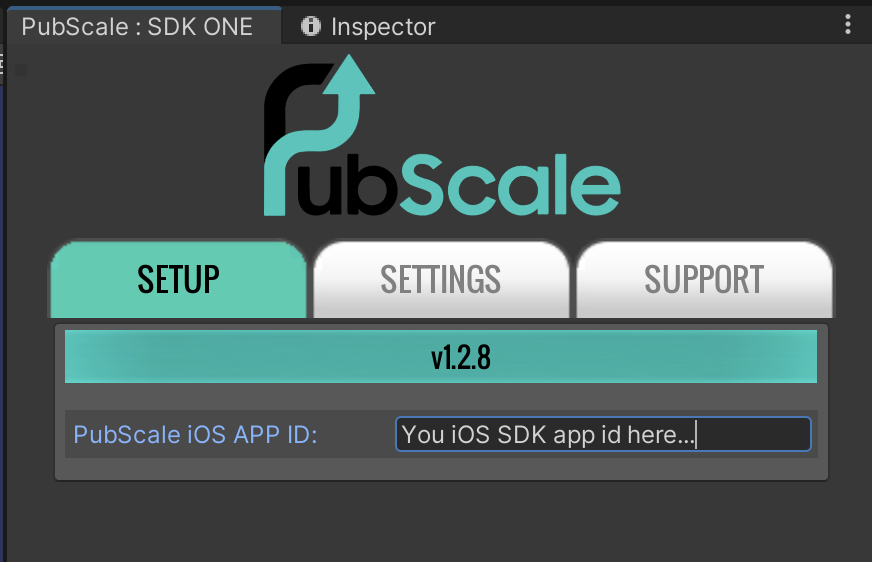
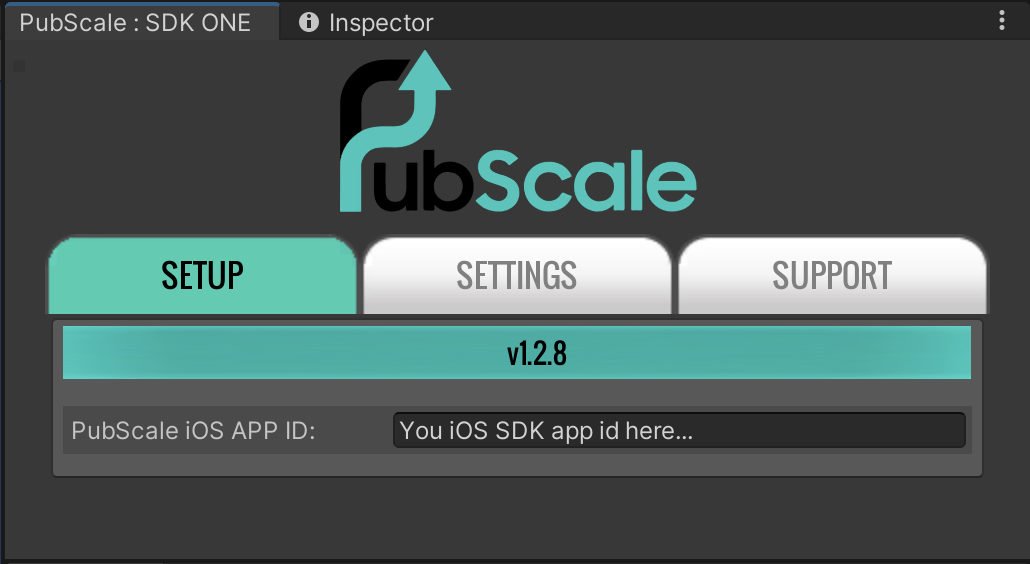
Add files via upload
Update v1.2.8 App ID media

Changed region(s): [[0.0, 0.0, 1.0, 1.0], [0.9599, 0.0302, 0.9908, 0.0605]]

diff --git a/index.html b/index.html
@@ -676,8 +676,7 @@ blockquote {
 </style></head><body><article id="fe0990ee-a724-4416-89f8-58ed024b128c" class="page mono"><header><img class="page-cover-image" src="Native%20Ad%20Integration%20fe0990eea724441689f858ed024b128c/gg.png" style="object-position:center 11.629999999999995%"/><div class="page-header-icon page-header-icon-with-cover"><img class="icon" src="https://www.notion.so/icons/book-closed_gray.svg"/></div><h1 class="page-title">Native Ad Integration</h1><p class="page-description"></p></header><div class="page-body"><p id="55d7b69e-4c62-4229-a159-4d5093b758b0" class="">SDK Version - 1.2.8 Last updated <time>@24/09/2023</time> </p><h2 id="1d392d7e-e95f-4542-8927-e1df2956d628" class="">Before Integration</h2><p id="8af10720-7b9a-4bad-8c45-5b60bee4ec93" class="">
 </p><ol type="1" id="19b2721b-daad-4e0f-8950-c082c52994b2" class="numbered-list" start="1"><li>Make sure you are using Unity version 2019.4.0f1 or above</li></ol><ol type="1" id="3f237023-750d-4712-93b1-531c53516f03" class="numbered-list" start="2"><li>Platform selected for your Unity project is based on the target device</li></ol><ol type="1" id="ae1d90b9-58a7-4022-ac36-f33147efb671" class="numbered-list" start="3"><li>You have the <mark class="highlight-blue"><a href="https://admob.google.com/home/">Ad Mob</a></mark> app ID ready with you. Make sure AdMob Unity version is v7.4.0 or above</li></ol><ol type="1" id="64551be1-2b00-4506-9ddc-25884c384752" class="numbered-list" start="4"><li>You have a PubScale SDK App ID and a Native Ad Unit ID for the platform you are targeting (Android / iOS)</li></ol><ol type="1" id="03c4959a-f996-459a-b670-6eac84d0f96b" class="numbered-list" start="5"><li>Ensure your application builds without any errors BEFORE adding the plugin </li></ol><p id="101f99c4-aa2c-4b43-82fa-940e6a20ede6" class="">
 </p><hr id="071746c0-b6a9-422b-b8b8-396e6e75b759"/><h2 id="bba8da08-ffd0-49d6-8c76-f12e53435cd2" class="">Editor Integration Steps</h2><p id="00835de8-80fd-4390-ba59-173e7df6735c" class="">
-</p><ol type="1" id="d0cb64d0-72dc-4bbe-9ee8-0e0d46d4fc22" class="numbered-list" start="1"><li>If using Unity editor version 2019 or 2020 change the Api Compatibility Level to .NET 4x.</li></ol><p id="a95d275d-5091-4e85-be01-9d1cec8ebe95" class="">This can be found under <mark class="highlight-orange"><strong>Player Settings/Other Settings/Configuration</strong></mark></p><figure id="0c301e83-ff78-4da7-a716-199dfb372f75" class="image" style="text-align:left"><a href="Native%20Ad%20Integration%20fe0990eea724441689f858ed024b128c/Untitled.png"><img style="width:393px" src="Native%20Ad%20Integration%20fe0990eea724441689f858ed024b128c/Untitled.png"/></a></figure><ol type="1" id="64b58d71-659b-4ab3-88b5-565525d21895" class="numbered-list" start="2"><li><a href="https://github.com/googleads/googleads-mobile-plugins/releases/latest"><mark class="highlight-blue">Download</mark></a><mark class="highlight-blue"> </mark>and import the latest version of the <mark class="highlight-blue"><strong>Google Mobile Ads</strong></mark><strong> </strong>plugin<strong>. </strong></li></ol><ol type="1" id="fd96ccfe-54b3-421f-a576-11379242da4b" class="numbered-list" start="3"><li><a href="https://github.com/GreedyGame/sdkone-unity_native_ads_plugin/releases/latest"><mark class="highlight-blue">Download</mark></a><mark class="highlight-blue"> </mark>and import the latest version of the <mark class="highlight-teal"><strong>PubScale Native Ads</strong></mark><strong> </strong>plugin<strong>.</strong></li></ol><ol type="1" id="6a724010-add3-4066-815c-8e47fb20424b" class="numbered-list" start="4"><li>Enter your PubScale App ID in the PubScale editor window located under <mark class="highlight-orange"><strong>Window/PubScale SDK/Main</strong></mark></li></ol><div id="4ef09d7a-bf2c-4bf9-b070-cec237075b76" class="column-list"><div id="ac54c30d-ab07-46e9-8634-fcf4756f139b" style="width:50%" class="column"><figure id="b3d2ec20-2010-45f6-ae3f-7665f106ada4" class="image" style="text-align:left"><a href="Native%20Ad%20Integration%20fe0990eea724441689f858ed024b128c/Android_App_ID.png"><img style="width:336px" src="Native%20Ad%20Integration%20fe0990eea724441689f858ed024b128c/Android_App_ID.png"/></a><figcaption>Android PubScale App ID</figcaption></figure></div><div id="232cf4a3-f69a-4b34-a24b-e371ea9d88bc" style="width:50%" class="column"><figure id="07d01f4a-b458-47f7-b852-fe04b1a438bd" class="image"><a href="Native%20Ad%20Integration%20fe0990eea724441689f858ed024b128c/iOS_App_ID.png"><img style="width:872px" src="Native%20Ad%20Integration%20fe0990eea724441689f858ed024b128c/iOS_App_ID.png"/></a><figcaption>iOS PubScale App ID</figcaption></figure><p id="15b2d10c-382c-472a-9758-9c4ef980039e" class="">
-</p></div></div><ol type="1" id="e18ea775-6baf-478b-a4be-8dbcea37c3e1" class="numbered-list" start="5"><li>Force resolve the dependencies from <mark class="highlight-orange"><strong>Assets/External Dependency Manager/Android Resolver/Force Resolve</strong></mark> if the resolver did not open automatically.</li></ol><figure id="2b7e75e9-1898-42b5-ad2b-384b01c2c24d" class="image" style="text-align:left"><a href="Native%20Ad%20Integration%20fe0990eea724441689f858ed024b128c/forceResolve.png"><img style="width:384px" src="Native%20Ad%20Integration%20fe0990eea724441689f858ed024b128c/forceResolve.png"/></a></figure><ol type="1" id="03a1e42c-2d71-4b04-8467-a5fb4170ddb9" class="numbered-list" start="6"><li>Enter your AdMob app ID inside the editor window pop-up<ol type="a" id="2b17775a-f489-4d22-86e9-6864ae2b8268" class="numbered-list" start="1"><li>Go to <strong><mark class="highlight-orange">Assets/Google Mobile Ads/Settings</mark></strong></li></ol><figure id="709103ec-6b0b-4812-9d5c-d66aca096bff" class="image" style="text-align:left"><a href="Native%20Ad%20Integration%20fe0990eea724441689f858ed024b128c/Untitled%201.png"><img style="width:240px" src="Native%20Ad%20Integration%20fe0990eea724441689f858ed024b128c/Untitled%201.png"/></a></figure><p id="efc08fda-34f5-415a-8ab1-6d2be6c53946" class="">b. In the Google Mobile Ads Settings Inspector Window add your application ID.</p><figure id="3266939c-8820-41f8-9d0b-ea0d7046cb74" class="image"><a href="Native%20Ad%20Integration%20fe0990eea724441689f858ed024b128c/Untitled%202.png"><img style="width:521px" src="Native%20Ad%20Integration%20fe0990eea724441689f858ed024b128c/Untitled%202.png"/></a></figure></li></ol><hr id="4e5b6454-4f35-4a35-9413-874fbb97ed52"/><h2 id="10d12adc-8360-4ca5-a4bb-9275863f2b05" class="">Scene Setup</h2><p id="237637ac-1b4e-4be3-a810-fcfb60c4cda7" class="">
+</p><ol type="1" id="d0cb64d0-72dc-4bbe-9ee8-0e0d46d4fc22" class="numbered-list" start="1"><li>If using Unity editor version 2019 or 2020 change the Api Compatibility Level to .NET 4x.</li></ol><p id="a95d275d-5091-4e85-be01-9d1cec8ebe95" class="">This can be found under <mark class="highlight-orange"><strong>Player Settings/Other Settings/Configuration</strong></mark></p><figure id="0c301e83-ff78-4da7-a716-199dfb372f75" class="image" style="text-align:left"><a href="Native%20Ad%20Integration%20fe0990eea724441689f858ed024b128c/Untitled.png"><img style="width:393px" src="Native%20Ad%20Integration%20fe0990eea724441689f858ed024b128c/Untitled.png"/></a></figure><ol type="1" id="64b58d71-659b-4ab3-88b5-565525d21895" class="numbered-list" start="2"><li><a href="https://github.com/googleads/googleads-mobile-plugins/releases/latest"><mark class="highlight-blue">Download</mark></a><mark class="highlight-blue"> </mark>and import the latest version of the <mark class="highlight-blue"><strong>Google Mobile Ads</strong></mark><strong> </strong>plugin<strong>. </strong></li></ol><ol type="1" id="fd96ccfe-54b3-421f-a576-11379242da4b" class="numbered-list" start="3"><li><a href="https://github.com/GreedyGame/sdkone-unity_native_ads_plugin/releases/latest"><mark class="highlight-blue">Download</mark></a><mark class="highlight-blue"> </mark>and import the latest version of the <mark class="highlight-teal"><strong>PubScale Native Ads</strong></mark><strong> </strong>plugin<strong>.</strong></li></ol><ol type="1" id="6a724010-add3-4066-815c-8e47fb20424b" class="numbered-list" start="4"><li>Enter your PubScale App ID in the PubScale editor window located under <mark class="highlight-orange"><strong>Window/PubScale SDK/Main</strong></mark></li></ol><div id="9c960001-da3b-40e2-9386-d5d9c2b37b75" class="column-list"><div id="5c549c3c-294f-48c8-a8ac-40175b1d78a6" style="width:50%" class="column"><figure id="3435f85a-9946-4cf4-9139-84c785e0717d" class="image" style="text-align:center"><a href="Native%20Ad%20Integration%20fe0990eea724441689f858ed024b128c/Android_App_ID.png"><img style="width:384px" src="Native%20Ad%20Integration%20fe0990eea724441689f858ed024b128c/Android_App_ID.png"/></a><figcaption>Android PubScale App ID</figcaption></figure></div><div id="4fcea8bb-0869-4c6a-9474-e174665234d6" style="width:50%" class="column"><figure id="3178e54e-7516-4ca1-8680-e118c6996ad3" class="image" style="text-align:left"><a href="Native%20Ad%20Integration%20fe0990eea724441689f858ed024b128c/iOS_App_ID.png"><img style="width:432px" src="Native%20Ad%20Integration%20fe0990eea724441689f858ed024b128c/iOS_App_ID.png"/></a><figcaption>iOS PubScale App ID</figcaption></figure></div></div><ol type="1" id="e18ea775-6baf-478b-a4be-8dbcea37c3e1" class="numbered-list" start="5"><li>Force resolve the dependencies from <mark class="highlight-orange"><strong>Assets/External Dependency Manager/Android Resolver/Force Resolve</strong></mark> if the resolver did not open automatically.</li></ol><figure id="2b7e75e9-1898-42b5-ad2b-384b01c2c24d" class="image" style="text-align:left"><a href="Native%20Ad%20Integration%20fe0990eea724441689f858ed024b128c/forceResolve.png"><img style="width:384px" src="Native%20Ad%20Integration%20fe0990eea724441689f858ed024b128c/forceResolve.png"/></a></figure><ol type="1" id="03a1e42c-2d71-4b04-8467-a5fb4170ddb9" class="numbered-list" start="6"><li>Enter your AdMob app ID inside the editor window pop-up<ol type="a" id="2b17775a-f489-4d22-86e9-6864ae2b8268" class="numbered-list" start="1"><li>Go to <strong><mark class="highlight-orange">Assets/Google Mobile Ads/Settings</mark></strong></li></ol><figure id="709103ec-6b0b-4812-9d5c-d66aca096bff" class="image" style="text-align:left"><a href="Native%20Ad%20Integration%20fe0990eea724441689f858ed024b128c/Untitled%201.png"><img style="width:240px" src="Native%20Ad%20Integration%20fe0990eea724441689f858ed024b128c/Untitled%201.png"/></a></figure><p id="efc08fda-34f5-415a-8ab1-6d2be6c53946" class="">b. In the Google Mobile Ads Settings Inspector Window add your application ID.</p><figure id="3266939c-8820-41f8-9d0b-ea0d7046cb74" class="image"><a href="Native%20Ad%20Integration%20fe0990eea724441689f858ed024b128c/Untitled%202.png"><img style="width:521px" src="Native%20Ad%20Integration%20fe0990eea724441689f858ed024b128c/Untitled%202.png"/></a></figure></li></ol><hr id="4e5b6454-4f35-4a35-9413-874fbb97ed52"/><h2 id="10d12adc-8360-4ca5-a4bb-9275863f2b05" class="">Scene Setup</h2><p id="237637ac-1b4e-4be3-a810-fcfb60c4cda7" class="">
 </p><ol type="1" id="92fbbf60-ba8b-4c46-8d4e-e3a4f5f29f4d" class="numbered-list" start="1"><li>Drag and drop the PubScaleManager prefab from <mark class="highlight-orange">Assets/PubscaleSDK/Common/Prefabs/PubScaleManager.prefab </mark>in the first scene in your Build Settings.</li></ol><ol type="1" id="f13eae23-0ce6-460a-9f07-ba9a92311ab2" class="numbered-list" start="2"><li>Drag and drop any of the Native ad unit prefab from <mark class="highlight-orange">Assets/PubscaleSDK/NativeAds/Prefabs/AdHolderUnits </mark>into your gameplay scene. (Note: If using any prefab from the “ScreenSpaceCamera” folder then put it under any Canvas in <strong>Screen Space-Camera</strong> render mode to see ads on it.)</li></ol><ol type="1" id="500c3c3d-c57c-420e-882f-b2f28437be0f" class="numbered-list" start="3"><li>Open the Settings Tab in the PubScale Main Menu found under <mark class="highlight-orange"><strong>Window/PubScale SDK/Main</strong></mark> and Enter the Native Ads settings.</li></ol><div id="53ace4b7-2a27-4d11-b9b4-31ddfbd84869" class="column-list"><div id="434cfc8b-8ad8-46e4-8c8e-b71f3c21bd15" style="width:50%" class="column"><figure id="1b55cff9-0772-4ea7-b677-c8187087f221" class="image"><a href="Native%20Ad%20Integration%20fe0990eea724441689f858ed024b128c/Android_Fallback_Unit.png"><img style="width:1024px" src="Native%20Ad%20Integration%20fe0990eea724441689f858ed024b128c/Android_Fallback_Unit.png"/></a><figcaption>Android fallback ad unit</figcaption></figure></div><div id="245e2c1f-4669-41b8-bb94-a82e7c79ec22" style="width:50%" class="column"><figure id="cf2a60ac-29b4-4186-8df6-24c4b96b42f1" class="image"><a href="Native%20Ad%20Integration%20fe0990eea724441689f858ed024b128c/iOS_Fallback_Unit.png"><img style="width:1020px" src="Native%20Ad%20Integration%20fe0990eea724441689f858ed024b128c/iOS_Fallback_Unit.png"/></a><figcaption>iOS fallback ad unit</figcaption></figure></div></div><figure id="f3fe1f57-b898-48a0-a325-9b19257b7253" class="image" style="text-align:left"><a href="Native%20Ad%20Integration%20fe0990eea724441689f858ed024b128c/Untitled%203.png"><img style="width:336px" src="Native%20Ad%20Integration%20fe0990eea724441689f858ed024b128c/Untitled%203.png"/></a></figure><ol type="1" id="8b5fb8c1-85bd-48fe-a81a-524aed3521df" class="numbered-list" start="4"><li>Make sure to add any of the Native Ad IDs in the Fallback AD ID field. This ensures ads are requested in case there is a network delay in receiving the dynamic ad config file from the server.</li></ol><ol type="1" id="069a3c69-4b5d-4ddc-b956-0cdb5986705a" class="numbered-list" start="4"><li>To test the integration always <mark class="highlight-yellow"><strong>Use Test Mode.</strong></mark> (This will enable test ads and show a debug UI over the native ad for checking Ad Impressions and Clicks)</li></ol><figure id="5029c6f0-7b09-4160-a0f9-7979074135f9" class="image" style="text-align:left"><a href="Native%20Ad%20Integration%20fe0990eea724441689f858ed024b128c/Screenshot_2023-09-28_at_5.36.53_PM.png"><img style="width:336px" src="Native%20Ad%20Integration%20fe0990eea724441689f858ed024b128c/Screenshot_2023-09-28_at_5.36.53_PM.png"/></a></figure><ol type="1" id="d1b351b5-af9e-4551-bb43-ec65f2526246" class="numbered-list" start="6"><li>Hit the play button in the editor and ensure PubScale dummy test ads are visible and there are no errors and warnings. Also <mark class="highlight-red">please note that the impression and click don’t work inside Editor.</mark></li></ol><ol type="1" id="56bbdf56-0b4a-4b4c-bc46-e12704bf58c4" class="numbered-list" start="7"><li>Finally, To test Impressions and Clicks, build the application to an actual device. Check if you are able to see the impression indicator turning green when the ad comes inside the camera view and the click indicator turning green when you tap on the ad.</li></ol><figure class="block-color-gray_background callout" style="white-space:pre-wrap;display:flex" id="5f8e4436-fe43-484f-b629-8c65543d50b2"><div style="font-size:1.5em"><span class="icon">✅</span></div><div style="width:100%"><mark class="highlight-red">Please make sure you have the Android build </mark><mark class="highlight-red"><strong>gradle version 4</strong></mark><mark class="highlight-red"> and above.</mark></div></figure><p id="1d09287b-9a09-4d6c-bc39-ddf125edcae1" class="">
 </p><figure id="966dfb70-3dcd-4931-9e5b-2631d122724c" class="image" style="text-align:left"><a href="Native%20Ad%20Integration%20fe0990eea724441689f858ed024b128c/screenshot_20230928_174134_720.jpg"><img style="width:288px" src="Native%20Ad%20Integration%20fe0990eea724441689f858ed024b128c/screenshot_20230928_174134_720.jpg"/></a></figure><p id="3b3ec96f-cb7d-47c7-ad9e-46ee9c10f5a2" class="">
 </p><p id="e4e91856-54cc-449a-a291-92fdd2d84907" class="">Your Integration is now complete! 🎉 </p><p id="4595dc61-2c91-4a9c-abdf-8e70dda6aedf" class="">
